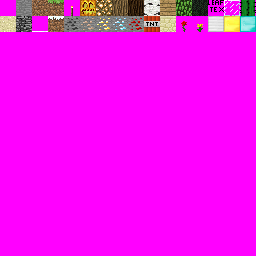
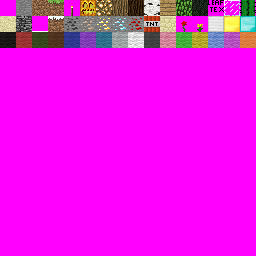
Added wool blocks and added 3 things to todo list

Changed region(s): [[0.0, 0.125, 1.0, 0.1875]]

diff --git a/trunk/MineDS/source/blockID.h b/trunk/MineDS/source/blockID.h
@@ -39,3 +39,19 @@
 #define IRON_BLOCK 29
 #define GOLD_BLOCK 30
 #define DIAMOND_BLOCK 31
+#define BLACK_WOOL 32
+#define RED_WOOL 33
+#define DARK_GREEN_WOOL 34
+#define BROWN_WOOL 35
+#define BlUE_WOOL 36
+#define PURPLE_WOOL 37
+#define CYAN_WOOL 38
+#define GRAY_WOOL 39
+#define WHITE_WOOL 40
+#define DRAK_GRAY_WOOL 41
+#define PINK_WOOL 42
+#define LIGHT_GREEN_WOOL 43
+#define YELLOW_WOOL 44
+#define LIGHT_BLUE_WOOL 45
+#define FUCHSIA_WOOL 46
+#define ORANGE_WOOL 47
